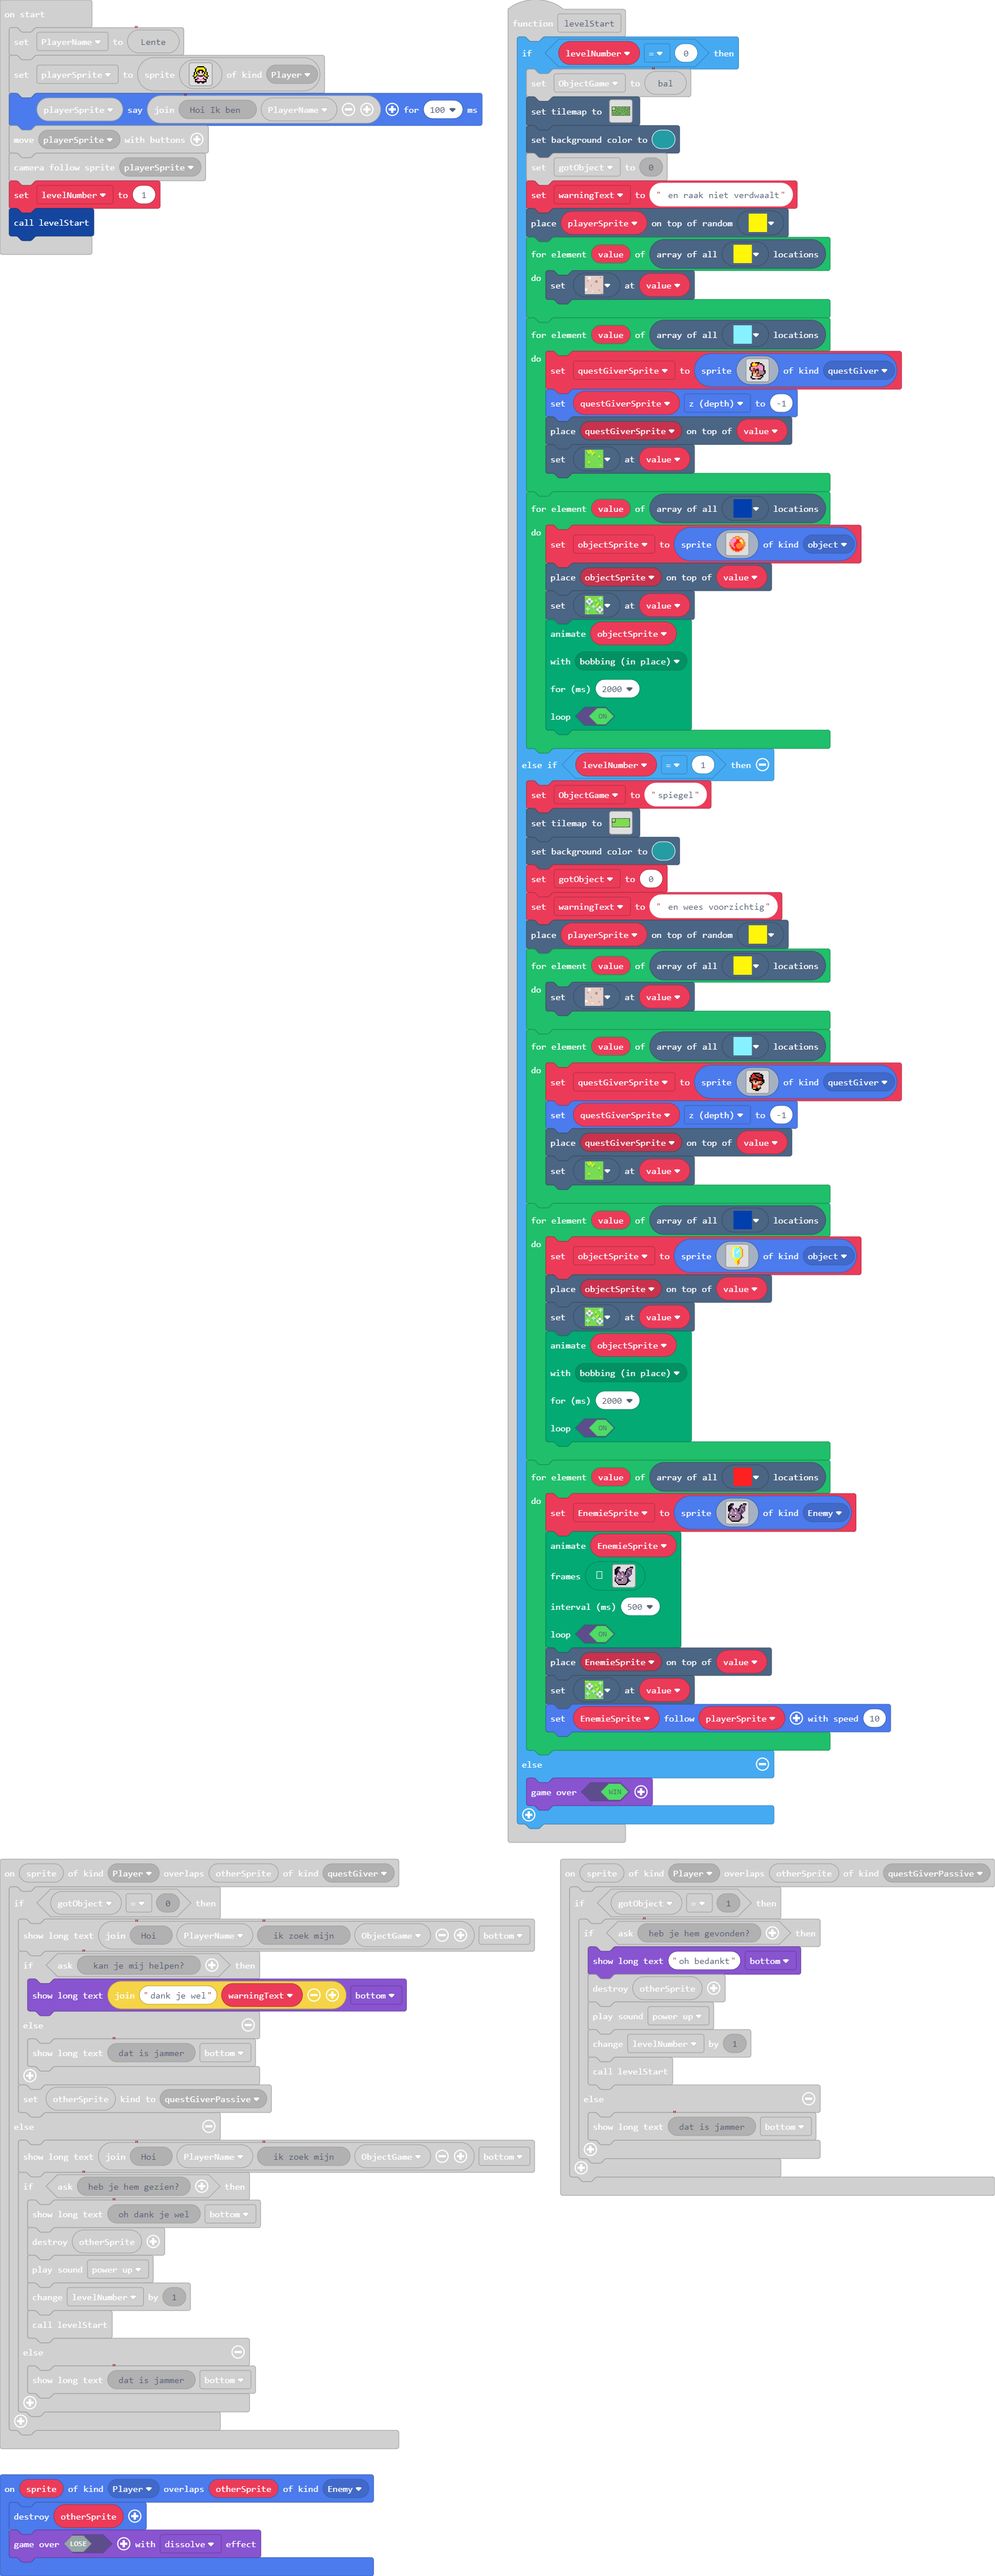
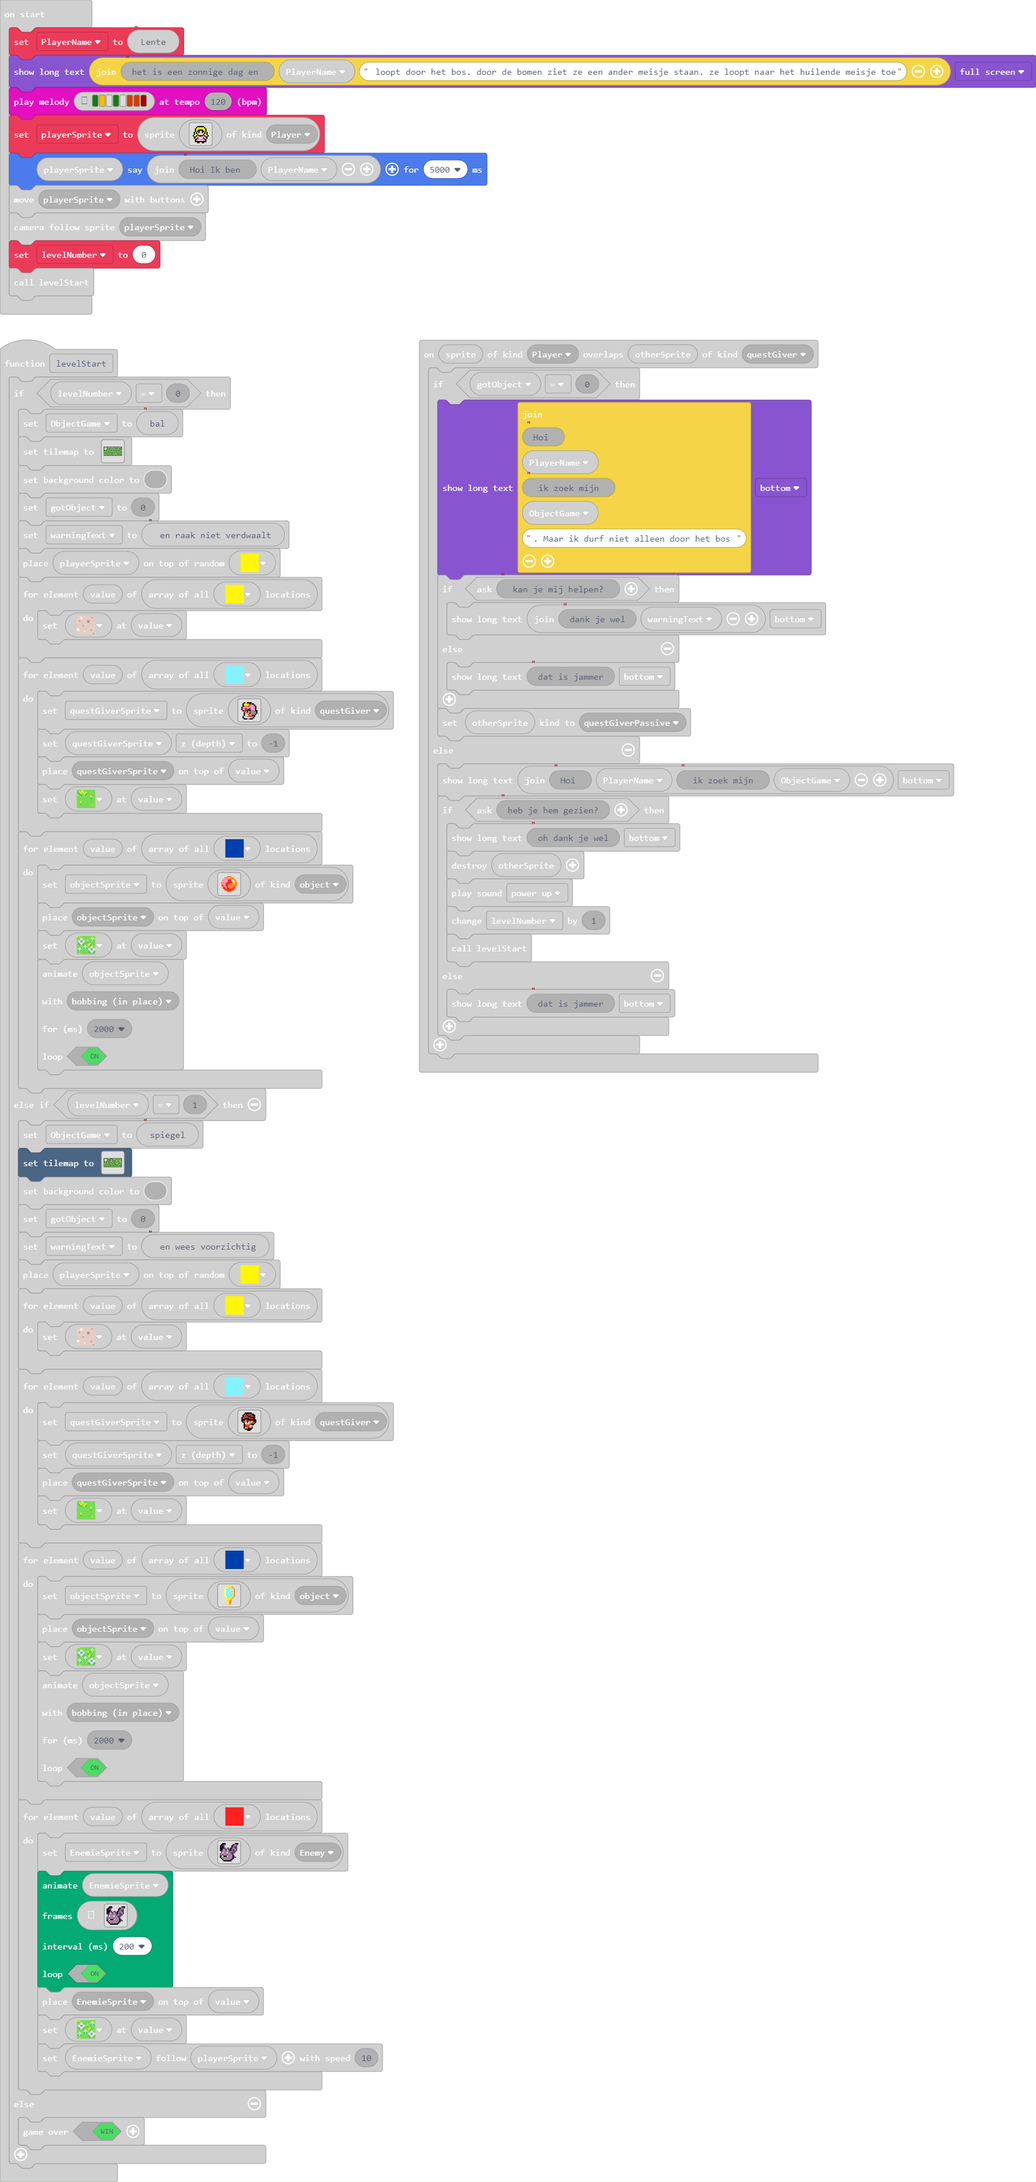
added second level and changed begin text

diff --git a/main.ts b/main.ts
@@ -230,23 +230,23 @@ function levelStart () {
     } else if (levelNumber == 1) {
         ObjectGame = "spiegel"
         tiles.setTilemap(tiles.createTilemap(
[2 lines of base64/hex data omitted]
             img`
 2 2 2 2 2 2 2 2 2 2 2 2 2 2 2 2 2 2 2 2 2 2 2 2 2 2 2 2 2 2 2 2 
-2 . . . . . 2 . . . . . . . . . . . . . . . . . . . . . . . . 2 
-2 . . . . . 2 . . . . . . . . . . . . . . . . . . . . . . . . 2 
-2 . . . . . 2 . . . . . . . . . . . . . . . . . . . . . . . 2 2 
-2 . . . . . 2 . . . . . . . . . . . . . . . . . . . . . . . 2 2 
-2 . . . . . 2 . . . . . . . . . . . . . . . . . . . . . . . 2 2 
-2 2 2 . 2 2 2 . . . . . . . . . . . . . . . . . . . . . . . . 2 
-2 2 2 . 2 2 . . . . . . . . . . . . . . . . . . . . . . . . . 2 
-2 . . . . . . . . . . . . . . . . . . . . . . . . . . . . . . 2 
-2 . . . . . . . . . . . . . . . . . . . . . . . . . . . . . . 2 
-2 . . . . . . . . . . . . . . . . . . . . . . . . . . . . . . 2 
-2 . . . . . . . . . . . . . . . . . . . . . . . . . . . . . . 2 
-2 . . . . . . . . . . . . . . . . . . . . . . . . . . . . . . 2 
-2 . . . . . . . . . . . . . . . . . . . . . . . . . . . . . . 2 
-2 . . . . . . . . . . . . . . . . . . . . . . . . . . . . . . 2 
+2 . . . . . 2 . . . . . 2 2 2 2 . . . . . . . . . . . . . . . 2 
+2 . . . . . 2 . 2 2 2 . . . . 2 . 2 . 2 . 2 2 2 2 . 2 2 2 2 . 2 
+2 . . . . . 2 . 2 . 2 2 2 2 . 2 . 2 . 2 . 2 . . 2 . . . 2 . 2 2 
+2 . . . . . 2 . 2 . 2 . . . . 2 . 2 . 2 . 2 . . 2 . 2 . . . 2 2 
+2 . . . . . 2 . 2 . 2 . 2 . . 2 . 2 . 2 . 2 . . 2 . 2 . . . 2 2 
+2 2 2 . 2 2 2 . 2 . 2 . 2 . . 2 . 2 . 2 . 2 . . 2 . 2 2 . . . 2 
+2 2 2 . 2 2 . . 2 . 2 . 2 . 2 2 . 2 2 2 . 2 2 . . . . 2 . 2 . 2 
+2 . . . . . . . 2 . 2 . 2 . . . . . . . . . . . . 2 . 2 . 2 . 2 
+2 . 2 2 2 2 2 . 2 2 2 . 2 2 2 2 2 2 2 2 2 2 . . . 2 . 2 . 2 . 2 
+2 . . . . . . . . . . . . . . . 2 . . . . 2 . 2 . 2 . 2 . 2 . 2 
+2 . 2 2 2 2 2 2 2 2 2 2 2 . 2 . 2 . 2 2 2 2 . 2 . 2 . . . 2 . 2 
+2 . 2 . . . . . . . . . 2 . 2 . 2 . . . . 2 . 2 . . . . 2 2 2 2 
+2 . 2 2 2 2 2 2 2 2 2 2 2 . 2 . 2 2 2 2 . 2 . 2 2 . 2 2 2 . . 2 
+2 . . . . . . . . . . . . . 2 . . . . . . . . . 2 . . . . . . 2 
 2 2 2 2 2 2 2 2 2 2 2 2 2 2 2 2 2 2 2 2 2 2 2 2 2 2 2 2 2 2 2 2 
 `,
             [myTiles.tile0,sprites.castle.tileGrass1,sprites.castle.tilePath2,sprites.castle.tilePath1,sprites.castle.tilePath3,sprites.castle.tilePath5,sprites.castle.tilePath4,sprites.castle.tilePath6,sprites.castle.tilePath7,sprites.castle.tilePath9,sprites.castle.tileGrass3,sprites.castle.tileGrass2,sprites.builtin.forestTiles18,sprites.builtin.forestTiles17,sprites.builtin.forestTiles19,sprites.castle.tilePath8,sprites.castle.saplingOak,sprites.castle.saplingPine,sprites.castle.rock1,sprites.castle.rock0,sprites.castle.rock2,myTiles.tile1,myTiles.tile2,myTiles.tile3,myTiles.tile4,myTiles.tile5,myTiles.tile6,sprites.castle.shrub],
@@ -383,7 +383,7 @@ c c c f f f f f f c c b b c . .
 . . c c c . . . . . . . c c c c 
 . . . . . . . . . . . . . . . . 
 `],
-            500,
+            200,
             true
             )
             tiles.placeOnTile(EnemieSprite, value)
@@ -413,7 +413,7 @@ sprites.onOverlap(SpriteKind.Player, SpriteKind.Enemy, function (sprite, otherSp
 })
 sprites.onOverlap(SpriteKind.Player, SpriteKind.questGiver, function (sprite, otherSprite) {
     if (gotObject == 0) {
-        game.showLongText("Hoi " + PlayerName + " ik zoek mijn " + ObjectGame, DialogLayout.Bottom)
+        game.showLongText("Hoi " + PlayerName + " ik zoek mijn " + ObjectGame + ". Maar ik durf niet alleen door het bos ", DialogLayout.Bottom)
         if (game.ask(" kan je mij helpen? ")) {
             game.showLongText("dank je wel" + warningText, DialogLayout.Bottom)
         } else {
@@ -448,6 +448,8 @@ let levelNumber = 0
 let playerSprite: Sprite = null
 let PlayerName = ""
 PlayerName = "Lente"
+game.showLongText("het is een zonnige dag en " + PlayerName + " loopt door het bos. door de bomen ziet ze een ander meisje staan. ze loopt naar het huilende meisje toe", DialogLayout.Full)
+music.playMelody("G A - G - B B C5 ", 120)
 playerSprite = sprites.create(img`
 . . . . . . . . . . . . . . . . 
 . . . . . f f f f f f . . . . . 
@@ -466,10 +468,10 @@ playerSprite = sprites.create(img`
 . . . f f f f f f f f f f . . . 
 . . . . . f f . . f f . . . . . 
 `, SpriteKind.Player)
-playerSprite.say("Hoi Ik ben " + PlayerName, 100)
+playerSprite.say("Hoi Ik ben " + PlayerName, 5000)
 controller.moveSprite(playerSprite)
 scene.cameraFollowSprite(playerSprite)
-levelNumber = 1
+levelNumber = 0
 levelStart()
 game.onUpdate(function () {
     playerSprite.setImage(img`
